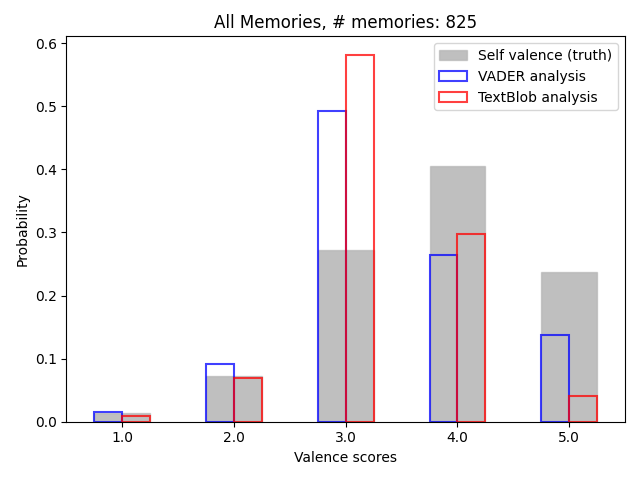
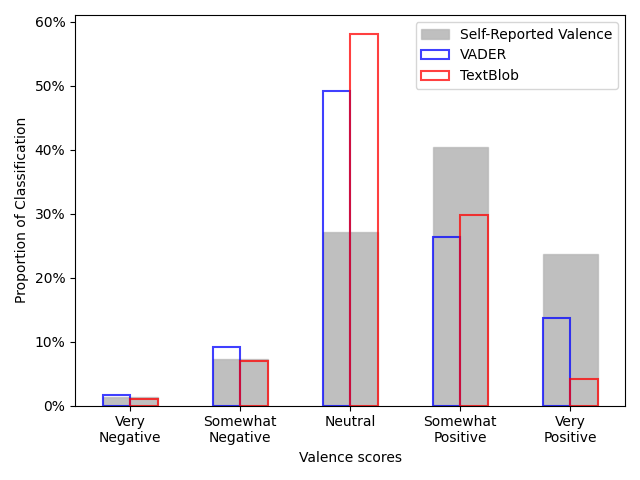
Plot label changes

diff --git a/src/sentiment_analysis.py b/src/sentiment_analysis.py
@@ -9,6 +9,7 @@ import random
 from sklearn import metrics
 from preprocess import preprocessing_pipeline
 import os
+import matplotlib.ticker as mticker
 
 
 def vader_score(text: str):
@@ -204,7 +205,7 @@ def sentiment_histogram_vis2(vader_scores: list, textblob_scores: list, selfvale
 
     # Adding titles and labels
     ax.set_xlabel('Valence scores')
-    ax.set_ylabel('Probability')
+    ax.set_ylabel('Proportion of Classification')
 
     # Set x-ticks to bin values
     ax.set_xticks(bins[:-1])
@@ -241,6 +242,9 @@ def sentiment_histogram_vis1(vader_scores: list, textblob_scores: list, selfvale
     '''
     # bins = np.arange(-1, 3)
 
+    display_labels = ["Very\nNegative", "Somewhat\nNegative",
+                      "Neutral", "Somewhat\nPositive", "Very\nPositive"]
+
     # print(selfvalence_scores)
     bins = np.arange(0.5, 6.5, step=1)
     # print(bins)
@@ -254,9 +258,9 @@ def sentiment_histogram_vis1(vader_scores: list, textblob_scores: list, selfvale
     # print(hist_selfvalence)
 
     # Normalize histograms to get probabilities
-    hist_vader_prob = hist_vader / sum(hist_vader)
-    hist_textblob_prob = hist_textblob / sum(hist_textblob)
-    hist_selfvalence_prob = hist_selfvalence / sum(hist_selfvalence)
+    hist_vader_prob = (hist_vader / sum(hist_vader))*100
+    hist_textblob_prob = (hist_textblob / sum(hist_textblob))*100
+    hist_selfvalence_prob = (hist_selfvalence / sum(hist_selfvalence))*100
 
     # Setting the width of each bar
     width = 0.5
@@ -268,32 +272,34 @@ def sentiment_histogram_vis1(vader_scores: list, textblob_scores: list, selfvale
     bins = np.arange(1, 6.5, step=1)
     # print(bins)
     ax.bar(bins[:-1], hist_selfvalence_prob, width=width,
-           label='Self valence (truth)', alpha=0.5, linewidth=1, color='grey', edgecolor='darkgrey')
+           label='Self-Reported Valence', alpha=0.5, linewidth=1, color='grey', edgecolor='darkgrey')
 
     ax.bar(bins[:-1] - width/4, hist_vader_prob, width=width/2,
-           label='VADER analysis', alpha=0.75, linewidth=1.5, fill=False, edgecolor='blue')
+           label='VADER', alpha=0.75, linewidth=1.5, fill=False, edgecolor='blue')
     ax.bar(bins[:-1] + width/4, hist_textblob_prob, width=width/2,
-           label='TextBlob analysis', alpha=0.75, linewidth=1.5, fill=False, edgecolor='red')
+           label='TextBlob', alpha=0.75, linewidth=1.5, fill=False, edgecolor='red')
 
     # Adding titles and labels
     ax.set_xlabel('Valence scores')
-    ax.set_ylabel('Probability')
+    ax.set_ylabel('Proportion of Classification')
 
     # Set x-ticks to bin values
     ax.set_xticks(bins[:-1])
     ax.set_xticklabels([f'{round(b, 1)}' for b in bins[:-1]])
+    ax.set_xticklabels(display_labels, ha="center")
+    ax.yaxis.set_major_formatter(mticker.PercentFormatter())
     ax.legend()
     plt.xlim(0.5, 5.5)
 
     # Saving the plot
     if cue_type != None:
-        plt.title(
-            f'Cue type: {cue_type}, cue value: {cue_val}, # memories: {cnt}')
+        # plt.title(
+        #     f'Cue type: {cue_type}, cue value: {cue_val}, # memories: {cnt}')
         plt.tight_layout()
         plt.savefig(
             f'{sentiment_output_path}/{cue_type}/{cue_val}_{cnt}_vis1.png', format='PNG')
     else:
-        plt.title(f'All Memories, # memories: {cnt}')
+        # plt.title(f'All Memories, # memories: {cnt}')
         plt.tight_layout()
         plt.savefig(
             f'{sentiment_output_path}/All_Memories_{cnt}_vis1.png', format='PNG')
@@ -332,7 +338,7 @@ def sentiment_histogram_vis3(vader_scores: list, textblob_scores: list, cnt: int
 
     # Adding titles and labels
     ax.set_xlabel('Valence scores')
-    ax.set_ylabel('Probability')
+    ax.set_ylabel('Proportion of Classification')
     ax.legend()
     plt.xlim(-1.5, 1.5)
 
@@ -358,6 +364,8 @@ def confusion_matrix(vader_scores: list, textblob_scores: list, selfvalence_scor
 
     # print(vader_scores, textblob_scores, selfvalence_scores)
     labels = [1, 2, 3, 4, 5]
+    display_labels = ["Very\nNegative", "Somewhat\nNegative",
+                      "Neutral", "Somewhat\nPositive", "Very\nPositive"]
 
     # Check the unique values of the true and predicted (VADER, Textblob) values.
     '''    
@@ -383,30 +391,45 @@ def confusion_matrix(vader_scores: list, textblob_scores: list, selfvalence_scor
         np.array(selfvalence_scores), np.array(textblob_scores), labels=labels)
 
     # Create subplots
-    fig, ax = plt.subplots(1, 2, figsize=(12, 6))
+    fig, ax = plt.subplots(2, 1, figsize=(6, 12))
     display_vader = metrics.ConfusionMatrixDisplay(
-        confusion_matrix=cm_vader, display_labels=labels)
+        confusion_matrix=cm_vader, display_labels=display_labels)
     display_textblob = metrics.ConfusionMatrixDisplay(
-        confusion_matrix=cm_textblob, display_labels=labels)
+        confusion_matrix=cm_textblob, display_labels=display_labels)
 
-    display_vader.plot(cmap='Blues', ax=ax[0], values_format='d')
-    display_textblob.plot(cmap='Blues', ax=ax[1], values_format='d')
+    p1 = display_vader.plot(cmap='Blues', ax=ax[0], values_format='d')
+    p2 = display_textblob.plot(cmap='Blues', ax=ax[1], values_format='d')
 
-    ax[0].set_title('VADER Confusion Matrix')
+    # p1.im_.colorbar.set_label("Narrative Count")
+    # p2.im_.colorbar.set_label("Narrative Count")
+
+    # Move color bar label to the top
+    for disp in [p1, p2]:  # Iterate through both confusion matrices
+        cbar = disp.im_.colorbar  # Get color bar
+        cbar.ax.set_ylabel("")  # Remove the side label
+        # Move label to the top
+        cbar.ax.set_xlabel("Narrative\nCount")
+        cbar.ax.xaxis.set_label_position('top')  # Set label position to top
+
+    ax[0].set_title('Confusion Matrix')
     ax[0].set_xlabel('VADER labels')
-    ax[0].set_ylabel('Self valence labels')
-    ax[1].set_title('TextBlob Confusion Matrix')
+    ax[0].set_ylabel('Self-Reported labels')
+    ax[1].set_title('Confusion Matrix')
     ax[1].set_xlabel('TextBlob labels')
-    ax[1].set_ylabel('Self valence labels')
+    ax[1].set_ylabel('Self-Reported labels')
+    # ax[0].set_xticklabels(display_labels, va="center", ha="center")
+    # ax[1].set_xticklabels(display_labels, va="center", ha="center")
+    # ax[0].set_yticklabels(display_labels, va="center", ha="center")
+    # ax[1].set_yticklabels(display_labels, va="center", ha="center")
 
     if cue_type != None:
-        plt.suptitle(
-            f'Cue type: {cue_type}, cue value: {cue_val}, # memories: {cnt}', fontsize=16)
+        # plt.suptitle(
+        #     f'Cue type: {cue_type}, cue value: {cue_val}, # memories: {cnt}', fontsize=16)
         fig.tight_layout()
         plt.savefig(
             f'{confusion_output_path}/{cue_type}/{cue_val}_{cnt}.png', format='PNG')
     else:
-        plt.suptitle(f'All Memories, # memories: {cnt}', fontsize=16)
+        # plt.suptitle(f'All Memories, # memories: {cnt}', fontsize=16)
         fig.tight_layout()
         plt.savefig(
             f'{confusion_output_path}/All_Memories_{cnt}.png', format='PNG')
@@ -635,6 +658,7 @@ if __name__ == '__main__':
 
     # Find and print the unique values from the cue type: [Song, Condition, Year, Singer]
     # cue_type = 'Singer'
+
     for cue_type in ['Song', 'Singer', 'Year', 'Condition']:
         # Check if output folders exist or not, if not then create the folders
         check_create_folders(path=f"{sentiment_output_path}/{cue_type}")
@@ -643,5 +667,6 @@ if __name__ == '__main__':
         print(cue_type)
         sentimentByCueType(cue_type=cue_type, df=df,
                            sentiment_output_path=sentiment_output_path, confusion_output_path=confusion_output_path, method=sentiment_type)
+
     sentimentOverall(
         df=df, sentiment_output_path=sentiment_output_path, confusion_output_path=confusion_output_path, method=sentiment_type)
